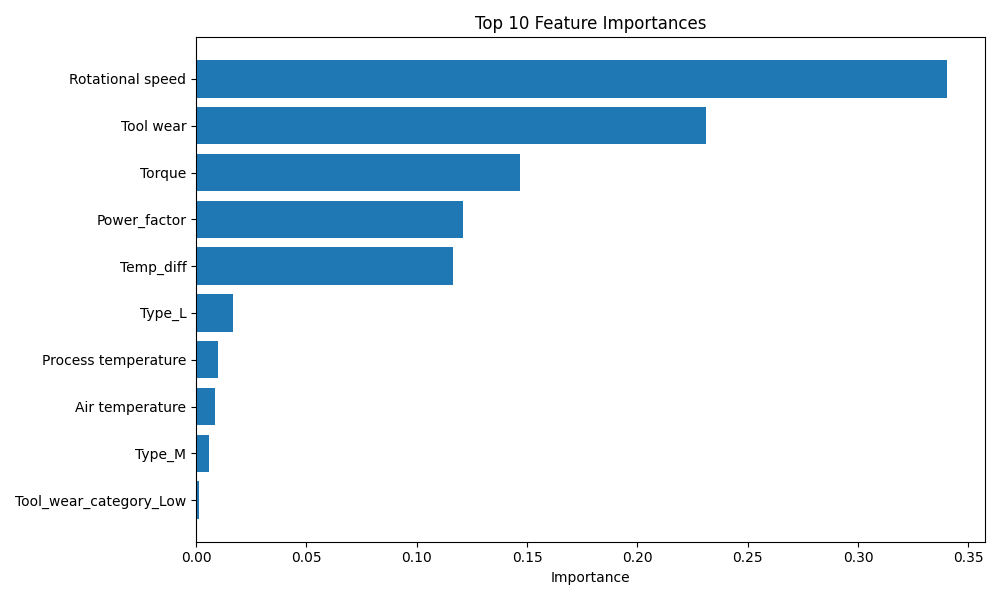
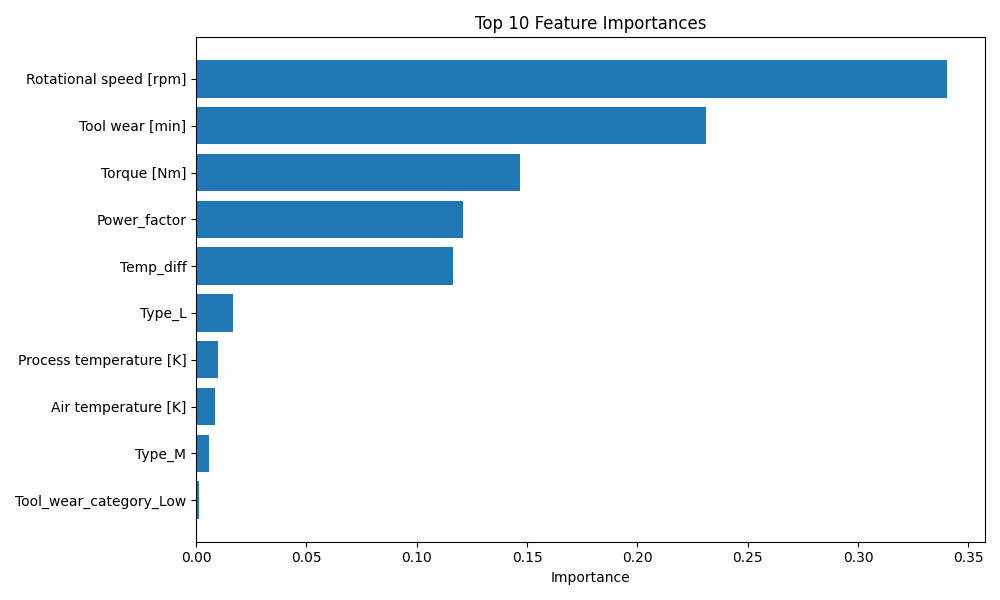
fix: 컬럼 특수문자 관련 벨류 오류로 xgboost 아예 제거

diff --git a/backend/app.py b/backend/app.py
@@ -1,76 +1,207 @@
-from fastapi import FastAPI
-from pydantic import BaseModel
+from fastapi import FastAPI, HTTPException
+from pydantic import BaseModel, Field
+from typing import List, Optional, Dict
 import pandas as pd
 import joblib
+import logging
+import matplotlib.pyplot as plt
+import seaborn as sns
+import io
+import base64
 
-# 1. FastAPI 앱 생성
-app = FastAPI(title="Smart Machine Guard API")
+# -----------------------------
+# 로깅 설정
+# -----------------------------
+logging.basicConfig(level=logging.INFO)
+logger = logging.getLogger(__name__)
 
-from fastapi.middleware.cors import CORSMiddleware
-
-app.add_middleware(
-    CORSMiddleware,
-    allow_origins=["*"],  # 개발단계에서는 * 허용, 나중에 도메인 지정 권장
-    allow_credentials=True,
-    allow_methods=["*"],
-    allow_headers=["*"],
+# -----------------------------
+# FastAPI 앱 생성
+# -----------------------------
+app = FastAPI(
+    title="소성공정 고장예측 API",
+    description="GradientBoosting 기반 제조 공정 고장 확률 예측",
+    version="1.0"
 )
 
-# 2. 모델 로드
-MODEL_PATH = "../models/xgb_final_model.pkl"
-THRESHOLD = 0.7
+# -----------------------------
+# 모델 및 전처리 객체 로드
+# -----------------------------
+try:
+    model = joblib.load('../models/best_model_GradientBoosting.pkl')
+    scaler = joblib.load('../models/scaler.pkl')
+    threshold = joblib.load('../models/best_threshold.pkl')
+    feature_cols = joblib.load('../models/feature_cols.pkl')
+    logger.info("GradientBoosting 모델 로드 완료")
+except Exception as e:
+    logger.error(f"모델 로드 실패: {e}")
+    model = None
+    threshold = 0.5
+    feature_cols = None
 
-# 학습 시 사용 컬럼 (모든 필요 컬럼 포함)
-MODEL_COLS = [
-    'Air_temperature_K_', 'Process_temperature_K_', 'Rotational_speed_rpm_',
-    'Torque_Nm_', 'Tool_wear_min_', 'Type_H', 'Type_L', 'Type_M'
-]
+# -----------------------------
+# 입력 데이터 스키마
+# -----------------------------
+class ProcessData(BaseModel):
+    air_temperature: float = Field(..., description="대기 온도 [K]", example=298.1)
+    process_temperature: float = Field(..., description="공정 온도 [K]", example=308.6)
+    rotational_speed: float = Field(..., description="회전 속도 [rpm]", example=1551)
+    torque: float = Field(..., description="토크 [Nm]", example=42.8)
+    tool_wear: float = Field(..., description="공구 마모 [min]", example=0)
+    product_type: str = Field(..., description="제품 타입 (L, M, H)", example="M")
 
-# 모델 로드
-model = joblib.load(MODEL_PATH)
+class BatchProcessData(BaseModel):
+    data: List[ProcessData]
 
-# 3. 입력 데이터 모델 정의 (JSON에는 _ 없음)
-class MachineInput(BaseModel):
-    Air_temperature_K: float
-    Process_temperature_K: float
-    Rotational_speed_rpm: float
-    Torque_Nm: float
-    Tool_wear_min: float
-    Type_H: int
-    Type_L: int
-    Type_M: int
+# -----------------------------
+# 예측 결과 스키마
+# -----------------------------
+class PredictionResult(BaseModel):
+    failure_probability: float
+    failure_prediction: bool
+    risk_level: str
+    confidence: float
+    recommendations: Optional[List[str]] = None
+    feature_importance: Optional[str] = None
 
-# 4. 예측 API
-@app.post("/predict")
-def predict_failure(data: MachineInput):
-    try:
-        # 4-1. DataFrame 변환 (pydantic v2: model_dump())
-        df = pd.DataFrame([data.model_dump()])
+# -----------------------------
+# 헬스 체크
+# -----------------------------
+@app.get("/health")
+def health_check():
+    return {
+        "status": "healthy",
+        "model_loaded": model is not None,
+        "threshold": threshold
+    }
 
-        # 4-2. 컬럼명 변환 (JSON → 학습 컬럼)
-        rename_map = {
-            "Air_temperature_K": "Air_temperature_K_",
-            "Process_temperature_K": "Process_temperature_K_",
-            "Rotational_speed_rpm": "Rotational_speed_rpm_",
-            "Torque_Nm": "Torque_Nm_",
-            "Tool_wear_min": "Tool_wear_min_"
-        }
-        df = df.rename(columns=rename_map)
-
-        # 4-3. 누락 컬럼 자동 0 채움
-        for col in MODEL_COLS:
+# -----------------------------
+# 데이터 전처리
+# -----------------------------
+def preprocess_input(data: ProcessData) -> pd.DataFrame:
+    # 1. 기본 데이터프레임 생성 (원본 컬럼명 사용)
+    df = pd.DataFrame([{
+        'Air temperature [K]': data.air_temperature,
+        'Process temperature [K]': data.process_temperature,
+        'Rotational speed [rpm]': data.rotational_speed,
+        'Torque [Nm]': data.torque,
+        'Tool wear [min]': data.tool_wear
+    }])
+    
+    # 2. 파생 피처 생성
+    df['Temp_diff'] = df['Process temperature [K]'] - df['Air temperature [K]']
+    df['Power_factor'] = df['Torque [Nm]'] * df['Rotational speed [rpm]'] / 1000
+    
+    # 3. 제품 타입 원핫인코딩
+    for col in ['Type_H','Type_L','Type_M']:
+        df[col] = 0
+    type_map = {'H':'Type_H','L':'Type_L','M':'Type_M'}
+    if data.product_type in type_map:
+        df[type_map[data.product_type]] = 1
+    
+    # 4. 스케일링
+    numeric_cols = ['Air temperature [K]','Process temperature [K]',
+                    'Rotational speed [rpm]','Torque [Nm]',
+                    'Tool wear [min]','Temp_diff','Power_factor']
+    if scaler is not None:
+        df[numeric_cols] = scaler.transform(df[numeric_cols])
+    
+    # 5. 컬럼 순서 맞추기
+    if feature_cols is not None:
+        for col in feature_cols:
             if col not in df.columns:
                 df[col] = 0
+        df = df[feature_cols]
+    
+    return df
 
-        # 4-4. 컬럼 순서 맞춤
-        df = df[MODEL_COLS]
+# -----------------------------
+# 위험 수준 결정
+# -----------------------------
+def get_risk_level(prob: float) -> str:
+    if prob < 0.3:
+        return "낮음"
+    elif prob < 0.5:
+        return "보통"
+    elif prob < 0.7:
+        return "높음"
+    else:
+        return "매우 높음"
 
-        # 4-5. 예측
-        proba = model.predict_proba(df)[:, 1][0]
-        pred = int(proba >= THRESHOLD)
+# -----------------------------
+# 권장사항 생성
+# -----------------------------
+def get_recommendations(data: ProcessData, prob: float) -> List[str]:
+    recs = []
+    if prob > 0.5:
+        recs.append("즉시 장비 점검을 실시하세요")
+    if data.tool_wear > 200:
+        recs.append("공구 교체를 고려하세요 (마모도 높음)")
+    if data.torque > 60:
+        recs.append("토크 값이 높습니다. 부하를 줄이세요")
+    if data.rotational_speed > 2500:
+        recs.append("회전 속도가 높습니다. 속도 조절을 고려하세요")
+    if not recs:
+        recs.append("현재 정상 운영 범위입니다")
+    return recs
 
-        # 4-6. numpy 타입 → 파이썬 기본 타입 변환
-        return {"Machine_failure_probability": float(proba), "Predicted_failure": pred}
+# -----------------------------
+# Feature Importance → base64 변환
+# -----------------------------
+def plot_feature_importance(model, X_cols):
+    if hasattr(model,'feature_importances_'):
+        fi = pd.DataFrame({'feature': X_cols, 'importance': model.feature_importances_}).sort_values(
+            'importance', ascending=False)
+        fig = plt.figure(figsize=(6,4))
+        sns.barplot(x='importance', y='feature', data=fi.head(10))
+        plt.title("Feature Importance")
+        buf = io.BytesIO()
+        fig.savefig(buf, format='png', bbox_inches='tight')
+        buf.seek(0)
+        img_base64 = base64.b64encode(buf.read()).decode('utf-8')
+        plt.close(fig)
+        return img_base64
+    return None
 
+# -----------------------------
+# 단일 데이터 예측
+# -----------------------------
+@app.post("/predict", response_model=PredictionResult)
+def predict(data: ProcessData):
+    if not model:
+        raise HTTPException(status_code=503, detail="모델이 로드되지 않았습니다")
+    
+    try:
+        X = preprocess_input(data)
+        prob = model.predict_proba(X)[0,1]
+        pred = prob >= threshold
+        confidence = abs(prob - 0.5) * 2
+        risk = get_risk_level(prob)
+        recs = get_recommendations(data, prob)
+        fi_img = plot_feature_importance(model, X.columns)
+        
+        return PredictionResult(
+            failure_probability=float(prob),
+            failure_prediction=bool(pred),
+            risk_level=risk,
+            confidence=float(confidence),
+            recommendations=recs,
+            feature_importance=fi_img
+        )
     except Exception as e:
-        return {"error": str(e)}
+        logger.error(f"예측 오류: {e}")
+        raise HTTPException(status_code=500, detail=f"예측 오류: {e}")
+
+# -----------------------------
+# 배치 데이터 예측
+# -----------------------------
+@app.post("/predict_batch")
+def predict_batch(batch_data: BatchProcessData):
+    results = []
+    for data in batch_data.data:
+        try:
+            res = predict(data)
+            results.append(res.dict())
+        except Exception as e:
+            results.append({"error": str(e), "data": data.dict()})
+    return {"results": results}
